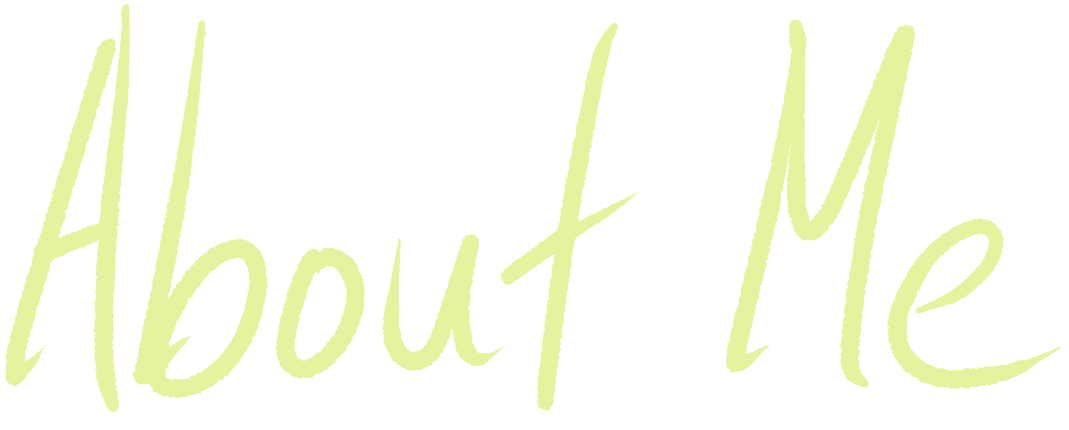
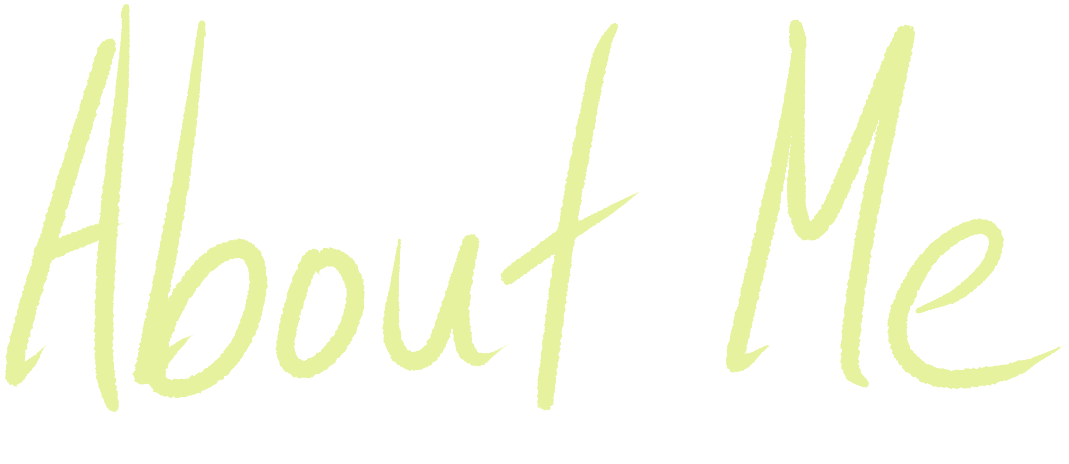
Copy and content

diff --git a/about.html b/about.html
@@ -101,77 +101,105 @@
     <!-- main content -->
     <main id="content" class="content container-fluid p-0 wrapper flex-grow-1">
       
-      <section class="container-xxl m-auto row row-cols-1 row-cols-sm-2 align-items-center mt-5">
+      <section class="container-xxl d-flex justify-content-center m-auto row row-cols-1 row-cols-sm-2 align-items-center mt-5">
         <div class="col col-md-4 svg-color">
           <h1><img src="/img/about.png" class="container" alt="About Me"></h1>
-          <!-- <h1 hidden>About Me</h1> -->
-          <!-- <svg width="100%" viewBox="0 0 171 74" fill="none" xmlns="http://www.w3.org/2000/svg">
-            <path d="M25.4454 4.72916C25.4454 22.8333 31.1049 40.635 31.3049 58.6582M31.3049 58.6582C31.3085 58.9825 31.3104 59.3069 31.3104 59.6313V62.4009C31.3104 61.1487 31.3462 59.8383 31.4335 58.5022M31.3049 58.6582C30.2947 59.9016 29.5411 61.2718 29.2739 62.8082C28.5184 67.1525 34.1829 66.7898 36.6051 65.2519C41.9486 61.8592 45.2548 50.696 41.8183 45.0505C39.9492 41.9798 36.9455 41.4864 35.0167 44.7654C32.7027 48.6991 31.7435 53.7622 31.4335 58.5022M31.3049 58.6582C31.3474 58.606 31.3902 58.554 31.4335 58.5022M31.4335 58.5022C33.4629 56.0766 36.4487 54.1359 38.6415 52.3816M51.1045 46.5167C50.2333 46.5516 49.517 46.8248 48.9426 47.2734M48.9426 47.2734C43.7082 51.3615 50.2474 70.0123 58.5985 55.5585C61.1551 51.1337 58.2206 45.5342 52.978 45.1727C51.499 45.0707 49.1963 45.4966 48.9459 47.2498C48.9447 47.2577 48.9436 47.2656 48.9426 47.2734ZM48.9426 47.2734C48.6103 49.7336 51.69 49.2878 53.3038 49.4492M64.3005 47.2498C64.3005 49.2964 66.2931 65.0846 69.5953 63.0526C73.5867 60.5963 75.2973 55.0194 75.2973 50.6711C75.2973 48.0407 76.9307 55.8035 78.5963 57.8393C80.4009 60.0449 82.0911 60.2501 84.0947 58.2466M87.0271 9.86096C87.4385 26.3169 87.668 43.8623 90.6927 60.1201C91.0786 62.1941 91.8331 64.7761 91.8331 66.881C91.8331 68.8193 91.0394 63.0861 90.6927 61.179M80.4291 47.2498C86.5205 43.1889 93.9571 39.6535 98.757 34.0538M117 16C119.517 24.8101 117.818 29.424 117.818 38.534V62.6453C117.818 50.1464 118.831 35.3068 121.117 22.9999C121.117 17.5944 122.149 15.5856 122.5 9.61684C124.579 3.50009 124.107 20.1925 124.579 28.2703C124.993 35.3616 125.384 44.1798 127.756 50.9562C129.312 55.4028 130.677 56.0849 130.973 50.7525C131.448 42.2002 132.387 34.3601 133.946 25.9081C134.851 21.0051 136.146 15.4533 136.146 10.4312V9.00571C136.146 13.118 136.23 17.202 136.553 21.3058C137.53 33.7313 139.73 46.0277 140.544 58.4502C140.835 62.8867 141.278 67.2401 141.278 71.6871M146.5 53.8479C145.933 53.159 146.497 52.2338 147.597 51.2168M147.597 51.2168C150.011 48.9856 155.007 46.3126 156.306 44.7247C158.295 42.2939 155.906 40.6997 154.066 38.8597C151.248 36.0409 148.389 44.41 147.597 51.2168ZM147.597 51.2168C147.229 54.3753 147.306 57.1975 148.039 58.4095C155.291 70.413 162.474 57.1789 169.136 53.8479M12 7C11.0191 26.2021 5.66851 45.1728 2.3376 64.0514C1.50311 68.7811 2.22476 73.6344 4.40141 66.0593M13 12.2769V2.50031C13 0.0270809 13.6957 7.40269 14.2604 9.8081C16.3421 18.6748 18.0395 27.6302 19.7869 36.5704C21.7031 46.3745 22.7107 57.3239 26.9616 66.4928C29.0798 71.0616 27.5312 68.5419 26.089 65.604M4 49C8.93721 42.0818 16.7487 40.2989 24 37" stroke-width="2" stroke-linecap="round"/>
-            </svg>   -->
         </div>
         <div class="col col-md-8 p-5 pe-0">
-          <p class="display-6">I'm a this, this, and this. I do all kinds of interesting things. Blah blah more stuff.</p>
+          <p class="display-6">I'm a this, this, and this. I do all kinds of fun and really interesting things.</p>
         </div>
       </section>
 
-      <!-- <section class="container-xxl mt-5 mb-5">
-        <div class="row gx-5 row-cols-1 row-cols-md-2">
-          <div class="col-md-4 text-center">
-            Buncha text
+      <section class="container-xxl m-auto mt-5 mb-5 pt-2">
+        <div class="row gx-5 row-cols-1 row-cols-md-2 align-items-center">
+          <div class="col-md-6">
+            <img src="/img/about-image.png" style="width: 100%; height: 100%; object-fit: cover;" alt="">
           </div>
-          <div class="col-md-4">
-            <img src="/img/intro-stef.png" style="width: 100%; height: 20em; object-fit: cover;" alt="">
-          </div>
-          <div class="col-md-4 text-center">
-            Other text
+          <div class="col-md-6">
+            <h2>Professionally</h2>
+            <p>I'm a manager of product design at the EY Design Studio. I'm a multidisciplinary designer with a background in data analysis and psychology, a passion for visual design, and a UX certification from Nielsen Norman Group.</p>
+            <p>I have over 7 years of experience producing award-winning designs for Fortune 100, public sector, and startup clients. My work spans the full define-to-development lifecycle, including research, strategy, prototyping, design systems, partnering with developers to bring design into production, and user testing and analytics. Additionally, I have experience improving cross-functional design processes and building design teams.</p>
+              
+              <p>Mental health and IDEA (inclusivity, diversity, equity, and accessibility) are passions of mine. Nobody is an "edge case", and my work reflects that.
+              </p>
+            <h2>Personally</h2>
+            <p>You'll likely catch me at a live concert, the beach, or a ski slope. Art has been a lifelong hobby of mine, and I love to learn new techniques. I enjoy gaming, from video games to TTRPGs to wargames, and occasionally participate in <a href="https://itch.io/profile/withanf">game jams</a> with friends. I'm also a fan of mechanical keyboards and artisan keycaps — check out <a href="https://people.zsa.io/stefanie-sequeira/" target="_blank">my interview with ZSA</a>, the people behind the Planck and Ergodox.</p>
+            <p>I'm always interested in meeting new people and networking. If you want to chat, feel free to <a href="mailto:stefaniesequeira@pm.me" target="_blank">reach out</a>!</p>
           </div>
         </div>
-      </section> -->
+    </section>
 
       <!-- work experience -->
-      <section class="container-xxl mt-5 mb-5">
-          <div class="row gx-5 row-cols-1 row-cols-md-2">
-            <div class="col-md-6">
-              <img src="/img/intro-stef.png" style="width: 100%; height: 100%; object-fit: cover;" alt="">
+      <section class="container-xxl mt-5 mb-5 pt-2">
+
+        <div class="row row-cols-1 row-cols-md-2 mt-5 d-flex justify-content-center">
+          <div class="col-md-3">
+            <h2>Experience</h2>
+          </div>
+          <div class="col-md-6 ps-4">
+            <!-- Left empty for alignment hehe -->
+          </div>
+        </div>
+          
+          <div class="row row-cols-1 row-cols-md-2 mt-4 d-flex justify-content-center">
+            <div class="col-md-3">
+              <h5>Ernst & Young</h5>
+              2018 - Present
             </div>
-            <div class="col-md-6 mt-5 mt-md-0">
-              <h2>Work Experience</h2>
-              <ul class="timeline">
-                <li>
-                  <p><h5>Ernst & Young</h5></p>
-                  <strong>Experience Design Manager</strong>
-                  <span class="timeline-date">2021 - Present</span>
+            <div class="col-md-6 border-start ps-4">
+                  <h6>Product Design Manager</h6>
                   <p>Lorem ipsum dolor sit amet, consectetur adipiscing elit. Quisque scelerisque diam non nisi semper, et elementum lorem ornare. Maecenas placerat facilisis mollis. Duis sagittis ligula in sodales vehicula....</p>
 
-                  <strong>Senior Experience Designer</strong>
-                  <span class="timeline-date">2019 - 2021</span>
+                  <h6>Senior Experience Designer</h6>
                   <p>Lorem ipsum dolor sit amet, consectetur adipiscing elit. Quisque scelerisque diam non nisi semper, et elementum lorem ornare. Maecenas placerat facilisis mollis. Duis sagittis ligula in sodales vehicula....</p>
 
-                  <strong>Technology Consultant</strong>
-                  <span class="timeline-date">2018 - 2019</span>
+                  <h6>Technology Consultant</h6>
                   <p>Lorem ipsum dolor sit amet, consectetur adipiscing elit. Quisque scelerisque diam non nisi semper, et elementum lorem ornare. Maecenas placerat facilisis mollis. Duis sagittis ligula in sodales vehicula....</p>
-                </li>
-                <li>
-                  <p><h5>RIT Venture Creations</h5></p>
-                  <strong>Student Startup Consultant</strong>
-                  <span class="timeline-date">2017</span>
-                  <p>Lorem ipsum dolor sit amet, consectetur adipiscing elit. Quisque scelerisque diam non nisi semper, et elementum lorem ornare. Maecenas placerat facilisis mollis. Duis sagittis ligula in sodales vehicula....</p>
-                </li>
-                <li>
-                  <p><h5>Ernst & Young</h5></p>
-                  <strong>Technology Consultant Intern</strong>
-                  <span class="timeline-date">2017</span>
-                  <p>Lorem ipsum dolor sit amet, consectetur adipiscing elit. Quisque scelerisque diam non nisi semper, et elementum lorem ornare. Maecenas placerat facilisis mollis. Duis sagittis ligula in sodales vehicula....</p>
-                </li>
-                <li>
-                  <p><h5>Ahold USA (now Retail Business Services)</h5></p>
-                  <strong>Co-op Business Intelligence Developer</strong>
-                  <span class="timeline-date">2016</span>
-                  <p>Lorem ipsum dolor sit amet, consectetur adipiscing elit. Quisque scelerisque diam non nisi semper, et elementum lorem ornare. Maecenas placerat facilisis mollis. Duis sagittis ligula in sodales vehicula....</p>
-                </li>
-              </ul>
             </div>
           </div>
+
+          <div class="row row-cols-1 row-cols-md-2 mt-4d-flex justify-content-center">
+            <div class="col-md-3">
+                <h5>RIT Venture Creations</h5>
+                2017
+            </div>
+            <div class="col-md-6 border-start ps-4">
+                  <h6>Student Startup Consultant</h6>
+                  <p>As part of RIT's tech business incubator, worked closely with multiple early-to-mid-seed startups, including New York State Energy Research and Development Authority (NYSERDA) clean energy incubator (CEI) companies. Responsibilities included:
+                    - Market and technical research
+                    - Competitive analysis
+                    - Business plan and investor pitch development
+                    - Web and brand design consultation
+                    - Business plan and investor pitch development
+                    - Interviews</p>
+                  <p>Supported multiple clients, including startups for <a href="https://www.tyllsolar.com/" target="_blank">green energy</a>, <a href="https://www.leepfoods.com/" target="_blank">organic eco-friendly foods</a>, and <a href="https://councilrock.com/" target="_blank">industrial engineering technology</a>.</p>
+            </div>
+          </div>
+
+          <div class="row row-cols-1 row-cols-md-2 mt-4 d-flex justify-content-center">
+            <div class="col-md-3">
+              <h5>Ernst & Young</h5>
+              2017
+            </div>
+            <div class="col-md-6 border-start ps-4">
+                <h6>Technology Consultant Intern</h6>
+                <p>beepboop</p>
+            </div>
+          </div>
+
+          <div class="row row-cols-1 row-cols-md-2 mt-4 d-flex justify-content-center">
+            <div class="col-md-3">
+              <h5>Ahold USA</h5>
+              <h6>(now Retail Business Services)</h6>
+              2016
+            </div>
+            <div class="col-md-6 border-start ps-4">
+              <h6>Co-op Business Intelligence Developer</h6>
+                  <p>I did reporting, data viz, including a GIS dashboard for regional managers to pull up the profile of a store with real-time metrics.</p>
+                  <p>I drove a sustainability initiative to measure and efficient the number of items per bag, decreasing waste by 30% per shopping trip.</p>
+            </div>
+          </div>
+
       </section>
     </main>
 

diff --git a/work.html b/work.html
@@ -107,7 +107,7 @@
             </svg>   -->
         </div>
         <div class="col col-md-8 p-5 pe-0">
-          <p class="display-6">I have over 7 years of experience designing for Fortune 100, public sector, and startups.</p>
+          <p class="display-6">Award-winning designs with a focus on equitable and accessible human experiences.</p>
         </div>
       </section>
 
